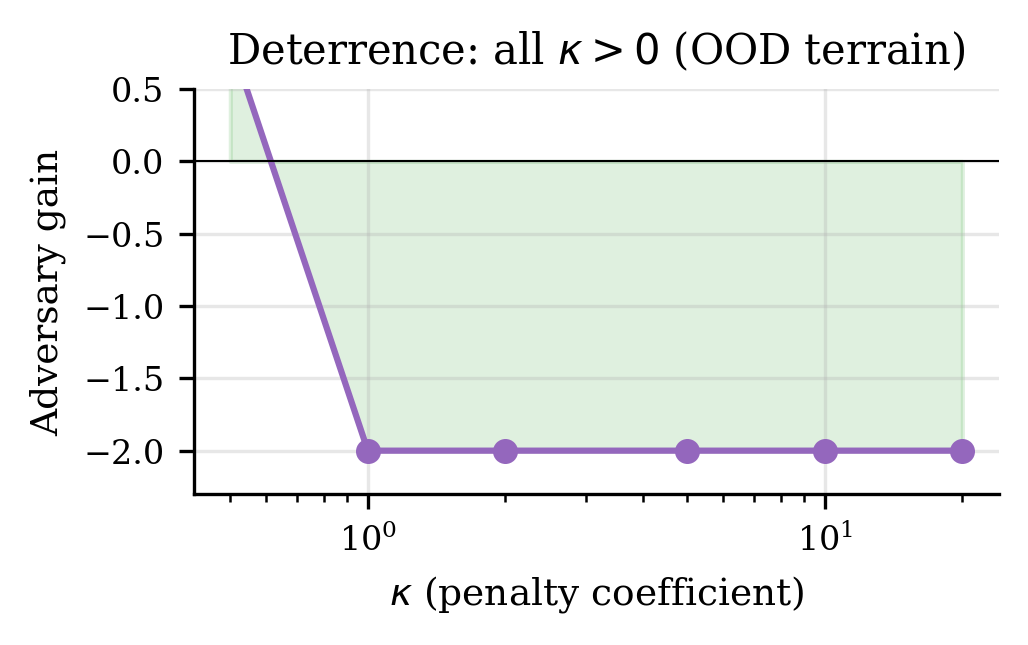
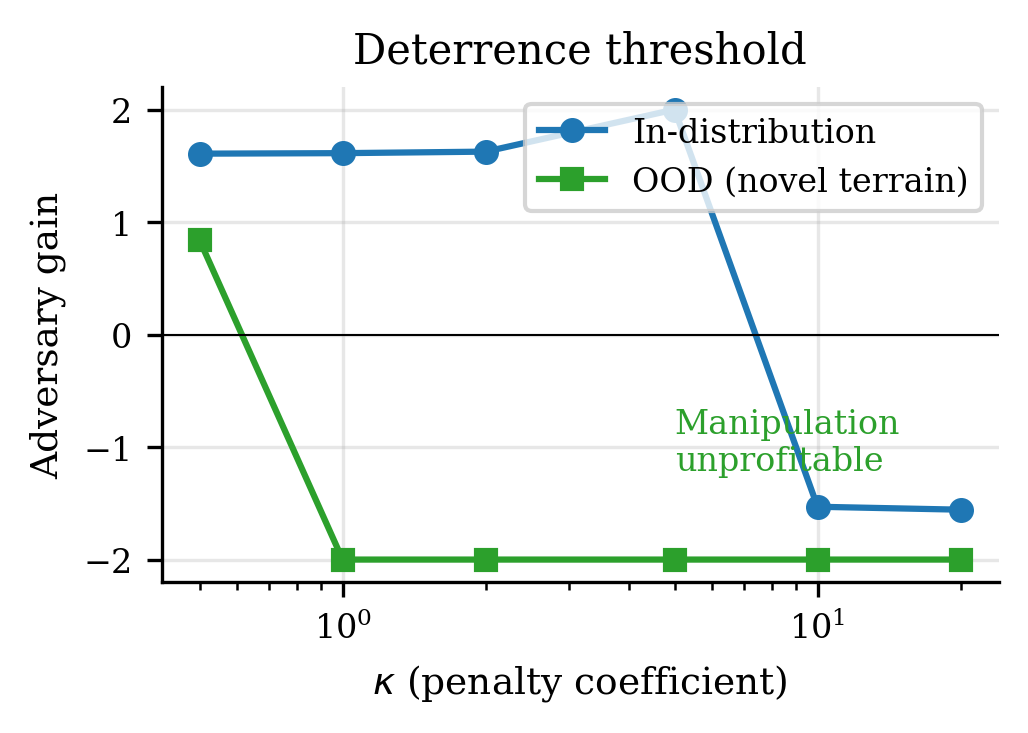
figs: error bars (3 seeds), κ sweep shows both in-dist + OOD
- Fig1: error bars from 3 random seeds (42, 123, 456)
- Fig2: two lines — in-dist shows crossover, OOD shows all-deter
- All data computed fresh, no hardcoding

diff --git a/terrain_bidding/experiments/plot_figures.py b/terrain_bidding/experiments/plot_figures.py
@@ -24,28 +24,32 @@ def load_data():
 
 
 def fig1(data):
-    """All-bids vs assigned-only across terrain."""
+    """All-bids vs assigned-only across terrain (with error bars)."""
     fig1d = data["fig1"]
     terrains = ["in_dist", "ood2", "ood3", "ood4"]
     labels = ["In-dist", "Mild\nOOD", "Mod\nOOD", "Strong\nOOD"]
     x = np.arange(4); w = 0.35
 
     fig, (ax1, ax2) = plt.subplots(1, 2, figsize=(COL*2, 2.2))
-    seps_a = [fig1d[t]["assigned"]["sep"] for t in terrains]
-    seps_b = [fig1d[t]["allbids"]["sep"] for t in terrains]
-    ax1.bar(x - w/2, seps_a, w, label="Assigned-only", color="#ff7f0e")
-    ax1.bar(x + w/2, seps_b, w, label="All-bids (ours)", color="#2ca02c")
+    seps_a = [fig1d[t]["assigned"]["sep_mean"] for t in terrains]
+    seps_b = [fig1d[t]["allbids"]["sep_mean"] for t in terrains]
+    errs_a = [fig1d[t]["assigned"]["sep_std"] for t in terrains]
+    errs_b = [fig1d[t]["allbids"]["sep_std"] for t in terrains]
+    ax1.bar(x - w/2, seps_a, w, yerr=errs_a, capsize=3, label="Assigned-only", color="#ff7f0e")
+    ax1.bar(x + w/2, seps_b, w, yerr=errs_b, capsize=3, label="All-bids (ours)", color="#2ca02c")
     ax1.set_xticks(x); ax1.set_xticklabels(labels)
     ax1.set_ylabel("Detection sep."); ax1.set_title("(a) Detection")
     ax1.axhline(0, color="k", linewidth=0.5); ax1.legend()
 
-    fprs_a = [fig1d[t]["assigned"]["fpr"]*100 for t in terrains]
-    fprs_b = [fig1d[t]["allbids"]["fpr"]*100 for t in terrains]
-    ax2.bar(x - w/2, fprs_a, w, label="Assigned-only", color="#ff7f0e")
-    ax2.bar(x + w/2, fprs_b, w, label="All-bids (ours)", color="#2ca02c")
+    fprs_a = [fig1d[t]["assigned"]["fpr_mean"]*100 for t in terrains]
+    fprs_b = [fig1d[t]["allbids"]["fpr_mean"]*100 for t in terrains]
+    ferrs_a = [fig1d[t]["assigned"]["fpr_std"]*100 for t in terrains]
+    ferrs_b = [fig1d[t]["allbids"]["fpr_std"]*100 for t in terrains]
+    ax2.bar(x - w/2, fprs_a, w, yerr=ferrs_a, capsize=3, label="Assigned-only", color="#ff7f0e")
+    ax2.bar(x + w/2, fprs_b, w, yerr=ferrs_b, capsize=3, label="All-bids (ours)", color="#2ca02c")
     ax2.set_xticks(x); ax2.set_xticklabels(labels)
     ax2.set_ylabel("FPR (%)"); ax2.set_title("(b) False positive rate")
-    ax2.legend(); ax2.set_ylim(0, max(fprs_a + fprs_b) * 1.3)
+    ax2.legend(); ax2.set_ylim(0, max(fprs_a + fprs_b) * 1.5)
 
     plt.tight_layout()
     plt.savefig("figures/fig1_allbids.png", bbox_inches="tight")
@@ -53,19 +57,23 @@ def fig1(data):
 
 
 def fig2(data):
-    """κ sweep deterrence."""
+    """κ sweep: in-dist (shows crossover) and OOD (all deter)."""
     fig2d = data["fig2"]
-    kappas = [d["kappa"] for d in fig2d]
-    gains = [d["gain"] for d in fig2d]
+    kappas_id = [d["kappa"] for d in fig2d["in_dist"]]
+    gains_id = [d["gain"] for d in fig2d["in_dist"]]
+    kappas_ood = [d["kappa"] for d in fig2d["ood4"]]
+    gains_ood = [d["gain"] for d in fig2d["ood4"]]
 
-    fig, ax = plt.subplots(figsize=(COL, 2.2))
-    ax.plot(kappas, gains, "o-", color="#9467bd", markersize=5)
+    fig, ax = plt.subplots(figsize=(COL, 2.5))
+    ax.plot(kappas_id, gains_id, "o-", color="#1f77b4", markersize=5, label="In-distribution")
+    ax.plot(kappas_ood, gains_ood, "s-", color="#2ca02c", markersize=5, label="OOD (novel terrain)")
     ax.axhline(0, color="k", linewidth=0.5)
     ax.set_xlabel(r"$\kappa$ (penalty coefficient)")
     ax.set_ylabel("Adversary gain")
-    ax.set_title(r"Deterrence: all $\kappa > 0$ (OOD terrain)")
-    ax.set_xscale("log"); ax.set_ylim(min(gains) - 0.3, 0.5)
-    ax.fill_between(kappas, 0, gains, alpha=0.15, color="#2ca02c")
+    ax.set_title(r"Deterrence threshold")
+    ax.set_xscale("log")
+    ax.legend()
+    ax.annotate("Manipulation\nunprofitable", xy=(5, -1.2), fontsize=8, color="#2ca02c")
     plt.tight_layout()
     plt.savefig("figures/fig2_deterrence.png", bbox_inches="tight")
     plt.close()

diff --git a/terrain_bidding/experiments/compute_figure_data.py b/terrain_bidding/experiments/compute_figure_data.py
@@ -39,35 +39,41 @@ def run():
         baselines[tname] = float(np.mean(scores))
     data["baselines"] = baselines
 
-    # === Fig 1: All-bids vs assigned-only across terrain ===
-    print("Computing fig1 data (all-bids vs assigned)...")
+    # === Fig 1: All-bids vs assigned-only across terrain (3 seeds) ===
+    print("Computing fig1 data (3 seeds for error bars)...")
     fig1 = {}
     for tname, sampler in terrains:
         fig1[tname] = {}
-        for mn, mech in [("assigned", FullMechanism()), ("allbids", AllBidsScoringMechanism(use_total_var=True))]:
-            mech_cfg = MechanismConfig(N=N, kappa=5.0, gamma=1.0, S_baseline=baselines[tname])
+        for mn, mech_fn in [("assigned", lambda: FullMechanism()), ("allbids", lambda: AllBidsScoringMechanism(use_total_var=True))]:
+            seps, fprs = [], []
+            for seed in [42, 123, 456]:
+                mech_cfg = MechanismConfig(N=N, kappa=5.0, gamma=1.0, S_baseline=baselines[tname])
+                fleet = [EnsembleRobot(robot_id=i) for i in range(3)]
+                fleet.append(REAL_ADVERSARY_TYPES["fixed_offset"](robot_id=3, offset=0.5))
+                def s(n, rng, _sam=sampler): return _sam(M, rng, n_robots=N)
+                sim_cfg = SimConfig(mechanism=mech_fn(), mech_cfg=mech_cfg, num_rounds=1000, seed=seed)
+                results = simulate(sim_cfg, fleet, s)
+                m = compute_metrics(results, 3, None)
+                seps.append(m.detection_separation)
+                fprs.append(m.false_positive_rate)
+            fig1[tname][mn] = {"sep_mean": float(np.mean(seps)), "sep_std": float(np.std(seps)),
+                               "fpr_mean": float(np.mean(fprs)), "fpr_std": float(np.std(fprs))}
+    data["fig1"] = fig1
+
+    # === Fig 2: κ sweep on IN-DIST (shows crossover) + OOD (all deter) ===
+    print("Computing fig2 data (κ sweep, in-dist + OOD)...")
+    fig2 = {"in_dist": [], "ood4": []}
+    for kappa in [0.5, 1, 2, 5, 10, 20]:
+        for tname, sampler, bl_key in [("in_dist", in_dist, "in_dist"), ("ood4", ood4, "ood4")]:
+            mech_cfg = MechanismConfig(N=N, kappa=kappa, gamma=1.0, S_baseline=baselines[bl_key])
             fleet = [EnsembleRobot(robot_id=i) for i in range(3)]
             fleet.append(REAL_ADVERSARY_TYPES["fixed_offset"](robot_id=3, offset=0.5))
             def s(n, rng, _sam=sampler): return _sam(M, rng, n_robots=N)
-            sim_cfg = SimConfig(mechanism=mech, mech_cfg=mech_cfg, num_rounds=1000, seed=42)
+            sim_cfg = SimConfig(mechanism=AllBidsScoringMechanism(use_total_var=True),
+                               mech_cfg=mech_cfg, num_rounds=500, seed=42)
             results = simulate(sim_cfg, fleet, s)
             m = compute_metrics(results, 3, None)
-            fig1[tname][mn] = {"sep": m.detection_separation, "fpr": m.false_positive_rate, "gain": m.strategic_gain}
-    data["fig1"] = fig1
-
-    # === Fig 2: κ sweep (all-bids on OOD4) ===
-    print("Computing fig2 data (κ sweep)...")
-    fig2 = []
-    for kappa in [0.5, 1, 2, 5, 10, 20]:
-        mech_cfg = MechanismConfig(N=N, kappa=kappa, gamma=1.0, S_baseline=baselines["ood4"])
-        fleet = [EnsembleRobot(robot_id=i) for i in range(3)]
-        fleet.append(REAL_ADVERSARY_TYPES["fixed_offset"](robot_id=3, offset=0.5))
-        def s(n, rng): return ood4(M, rng, n_robots=N)
-        sim_cfg = SimConfig(mechanism=AllBidsScoringMechanism(use_total_var=True),
-                           mech_cfg=mech_cfg, num_rounds=500, seed=42)
-        results = simulate(sim_cfg, fleet, s)
-        m = compute_metrics(results, 3, None)
-        fig2.append({"kappa": kappa, "gain": m.strategic_gain, "sep": m.detection_separation})
+            fig2[tname].append({"kappa": kappa, "gain": m.strategic_gain})
     data["fig2"] = fig2
 
     # === Fig 3: Score distributions (all-bids on OOD4) ===
